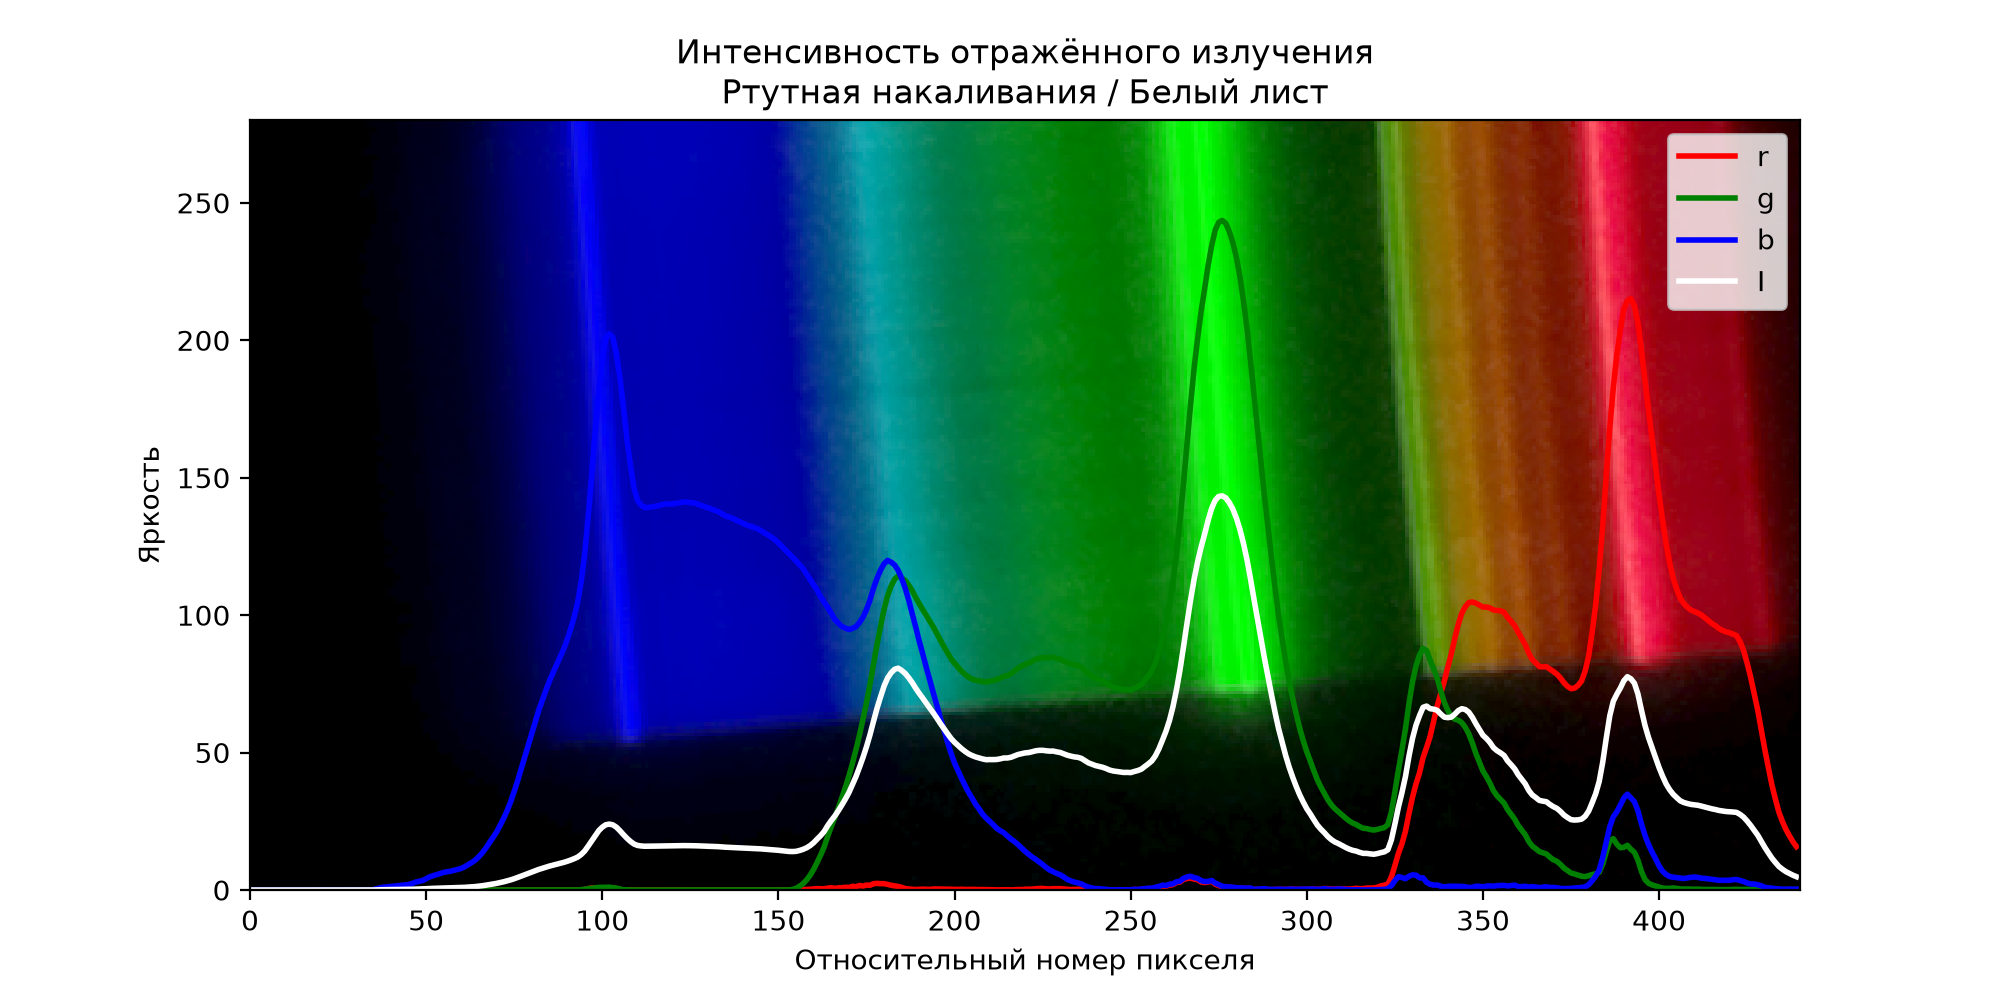
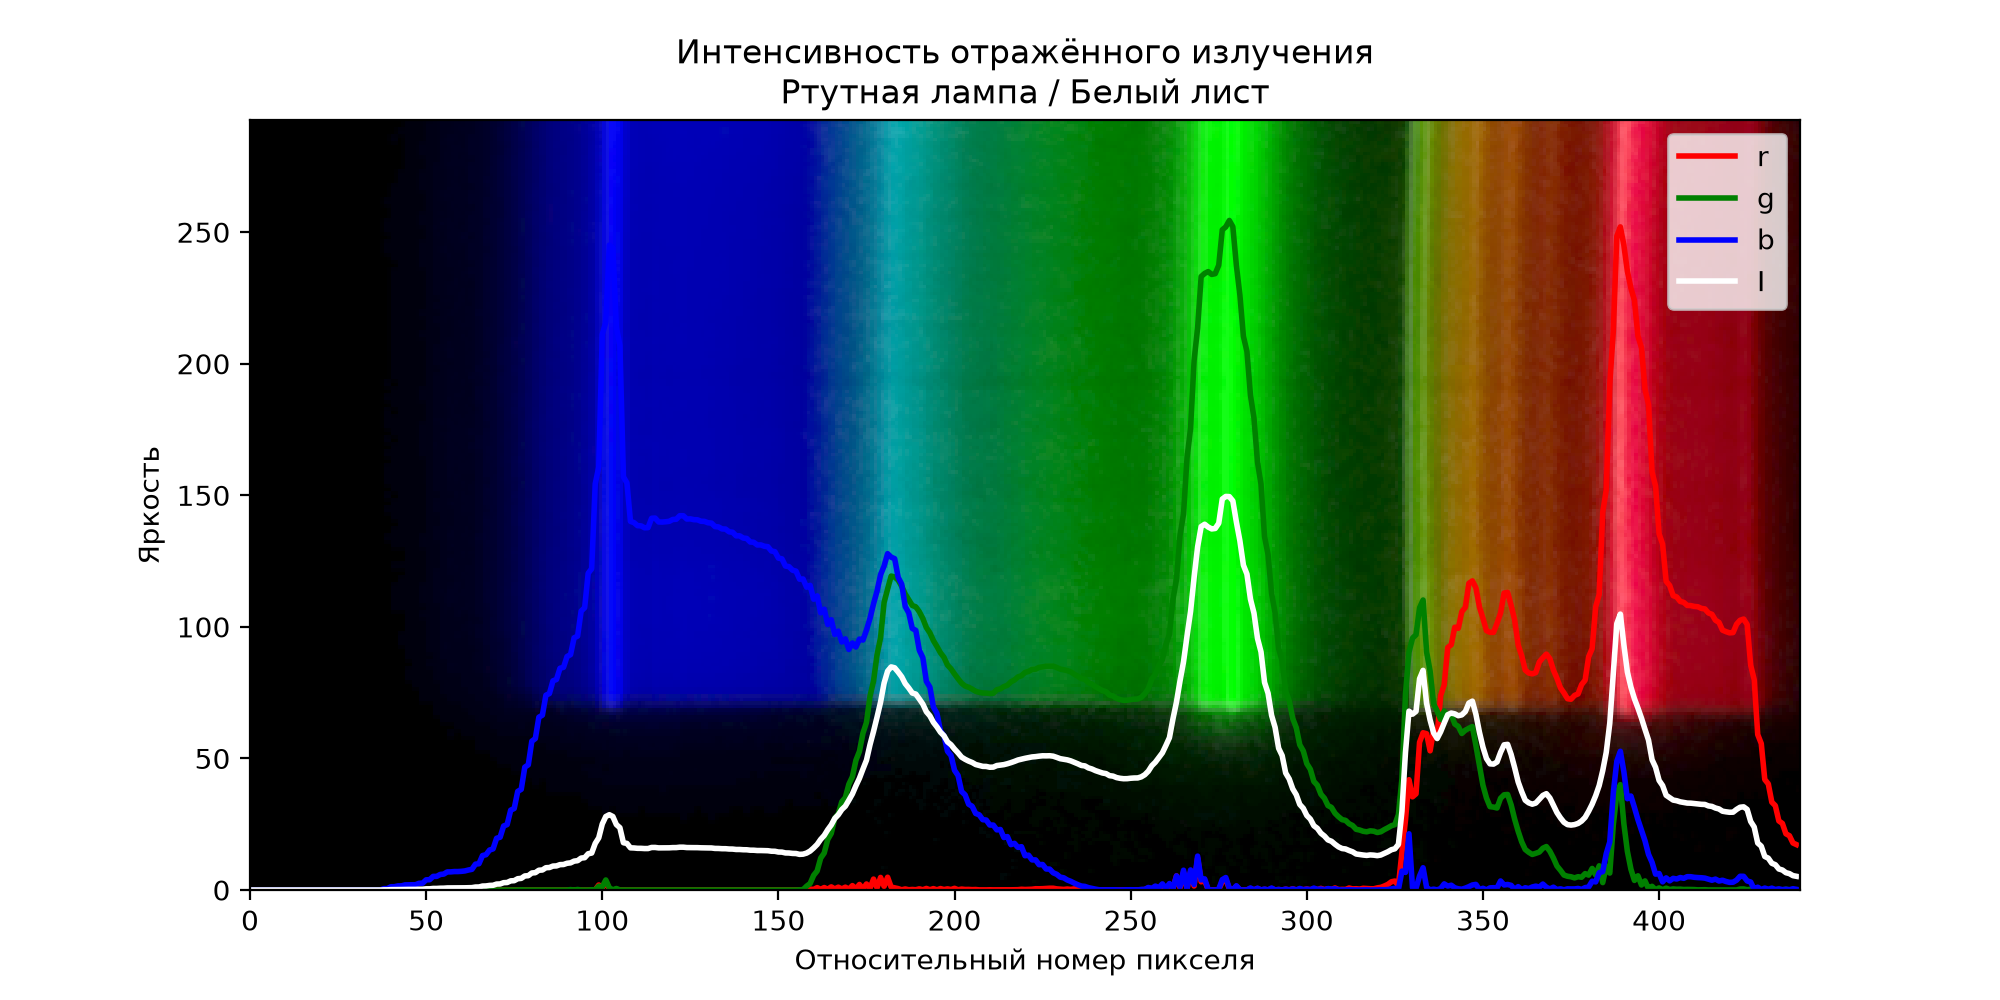
Итог

diff --git a/Programm/lightFunctions.py b/Programm/lightFunctions.py
@@ -15,12 +15,12 @@ BACKGROUND_COLS = slice(1130, 1350)
 
 # Камера стоит чуть повёрнутой относительно щели, и линии спектра на снимке
 # наклонены. Поворачиваем участок со спектром обратно на этот угол, градусы.
-ANGLE = 5
+ANGLE = 1
 
 
 def straighten(photo):
-    top, bottom = ROWS.start - 60, ROWS.stop + 60
-    left, right = BACKGROUND_COLS.start - 60, BACKGROUND_COLS.stop + 60
+    top, bottom = ROWS.start - 30, ROWS.stop + 30
+    left, right = BACKGROUND_COLS.start +20, BACKGROUND_COLS.stop + 30
     photo = photo[:, :, 0:3].astype(float)
     # поворот вокруг центра участка, то есть вокруг середины спектра
     photo[top:bottom, left:right] = ndimage.rotate(photo[top:bottom, left:right], ANGLE, reshape=False, order=1)
@@ -56,4 +56,4 @@ def readIntensity(photoName, plotName, lamp, surface):
 
     return luma
 
-readIntensity("lamp-white.png", "Спектр ртутной лампы и белого листа", "Ртутная накаливания", "Белый лист")
+readIntensity("lamp-yellow.png", "Спектр лампы накаливания и желтого листа", "Лампа накаливания", "Желтый лист")
